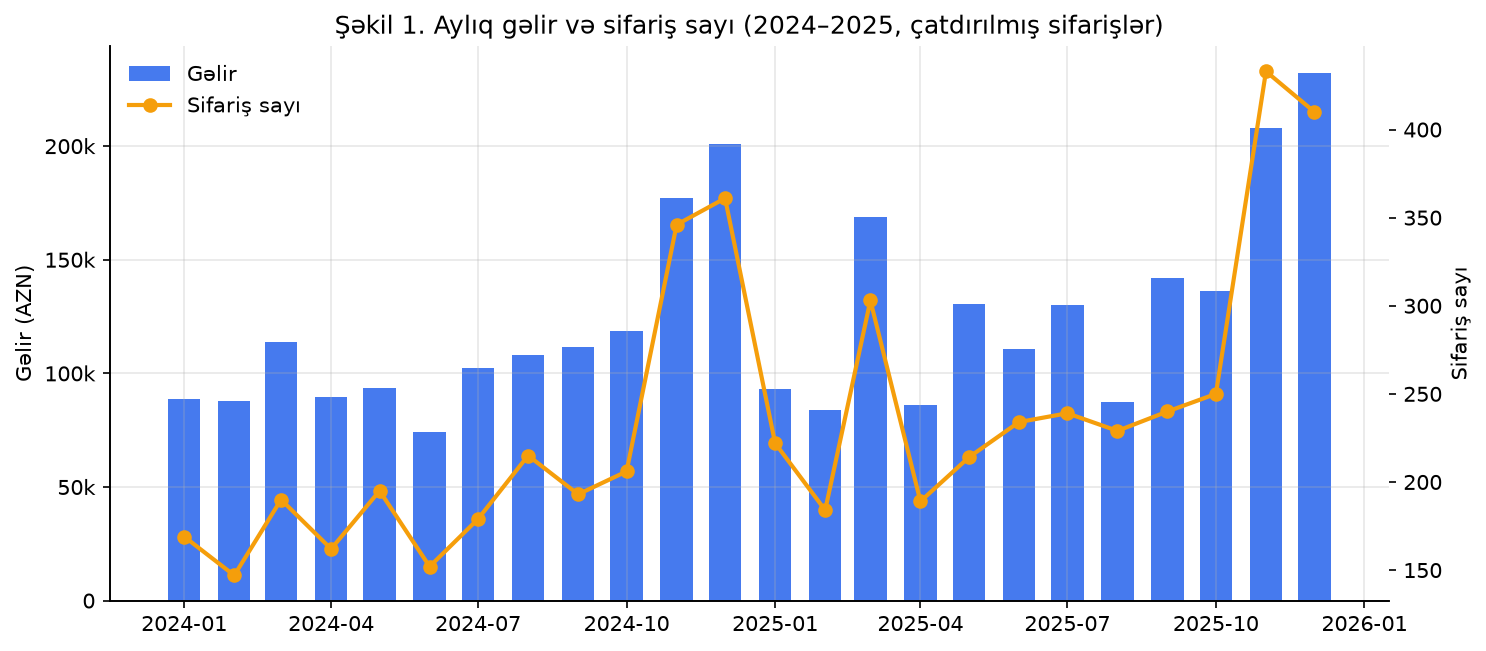
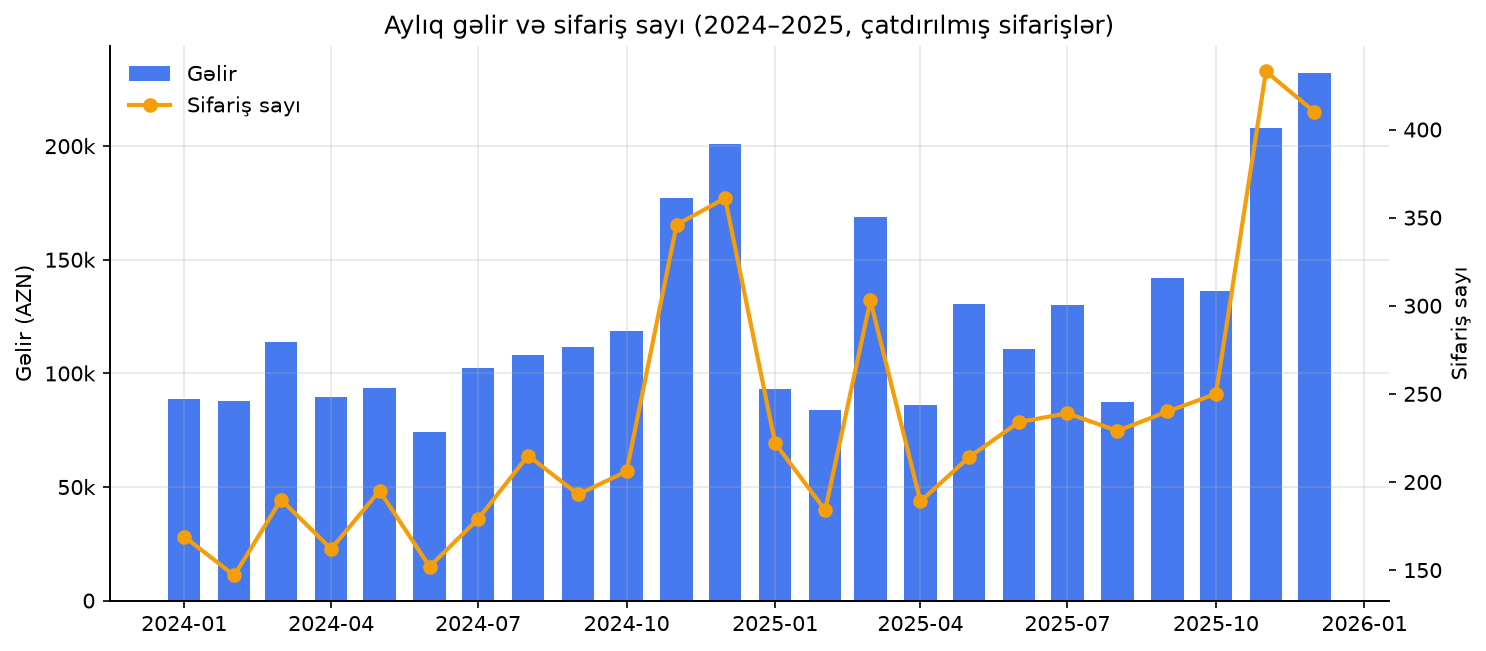
SQL sorğularında sabit sıralama (NTILE), qrafik başlıqları yeniləndi

Changed region(s): [[0.2167, 0.0, 0.7739, 0.0614]]

diff --git a/src/sales_report.py b/src/sales_report.py
@@ -76,7 +76,7 @@ def fig_monthly(df):
     ax2.set_ylabel("Sifariş sayı")
     ax2.grid(False)
     ax2.spines["top"].set_visible(False)
-    ax1.set_title("Şəkil 1. Aylıq gəlir və sifariş sayı (2024–2025, çatdırılmış sifarişlər)")
+    ax1.set_title("Aylıq gəlir və sifariş sayı (2024–2025, çatdırılmış sifarişlər)")
     h1, l1 = ax1.get_legend_handles_labels()
     h2, l2 = ax2.get_legend_handles_labels()
     ax1.legend(h1 + h2, l1 + l2, loc="upper left", frameon=False)
@@ -93,7 +93,7 @@ def fig_category(df):
                 va="center", fontsize=9)
     ax.xaxis.set_major_formatter(azn)
     ax.set_xlabel("Gəlir (AZN)")
-    ax.set_title("Şəkil 2. Kateqoriyalar üzrə gəlir və ümumi gəlirdəki pay")
+    ax.set_title("Kateqoriyalar üzrə gəlir və ümumi gəlirdəki pay")
     ax.grid(axis="y", visible=False)
     fig.savefig(FIGURES_DIR / "02_category_revenue.png")
     plt.close(fig)
@@ -105,7 +105,7 @@ def fig_payment(df):
     df.plot(kind="bar", stacked=True, ax=ax, color=["#16a34a", "#dc2626", "#f59e0b"], width=0.7)
     ax.set_xlabel("")
     ax.set_ylabel("Ödəniş sayı")
-    ax.set_title("Şəkil 3. Ödəniş üsulları üzrə statuslar")
+    ax.set_title("Ödəniş üsulları üzrə statuslar")
     ax.legend(["Uğurlu", "Uğursuz", "Geri qaytarılıb"], frameon=False)
     plt.xticks(rotation=0)
     fig.savefig(FIGURES_DIR / "03_payment_methods.png")
@@ -121,7 +121,7 @@ def fig_segments(df):
     for ax in axes:
         ax.tick_params(axis="x", rotation=15)
         ax.grid(axis="x", visible=False)
-    fig.suptitle("Şəkil 4. RFM seqmentləri: müştəri sayı və gəlir payı")
+    fig.suptitle("RFM seqmentləri: müştəri sayı və gəlir payı")
     fig.savefig(FIGURES_DIR / "04_customer_segments.png")
     plt.close(fig)
 
@@ -139,7 +139,7 @@ def fig_yoy(df):
     ax.set_yticks(y, p.index)
     ax.xaxis.set_major_formatter(azn)
     ax.set_xlabel("Gəlir (AZN)")
-    ax.set_title("Şəkil 5. Kateqoriyalar üzrə illik müqayisə (2024 və 2025)")
+    ax.set_title("Kateqoriyalar üzrə illik müqayisə (2024 və 2025)")
     ax.legend(frameon=False, loc="lower right")
     ax.grid(axis="y", visible=False)
     fig.savefig(FIGURES_DIR / "05_yoy_comparison.png")
@@ -162,7 +162,7 @@ def fig_order_distribution(engine):
         ax.set_ylabel("Sifariş sayı")
     axes[0].set_xlabel("Sifariş məbləği (AZN)")
     axes[1].set_xlabel("log10(məbləğ)")
-    fig.suptitle("Şəkil 6. Sifariş məbləğlərinin paylanması")
+    fig.suptitle("Sifariş məbləğlərinin paylanması")
     fig.savefig(FIGURES_DIR / "06_order_distribution.png")
     plt.close(fig)
 
@@ -173,7 +173,7 @@ def fig_city(df):
     ax.barh(city.index, city.values, color="#0891b2")
     ax.xaxis.set_major_formatter(azn)
     ax.set_xlabel("Uğurlu ödənişlərin məbləği (AZN)")
-    ax.set_title("Şəkil 7. Şəhərlər üzrə satış (uğurlu ödənişlər)")
+    ax.set_title("Şəhərlər üzrə satış (uğurlu ödənişlər)")
     ax.grid(axis="y", visible=False)
     fig.savefig(FIGURES_DIR / "07_city_sales.png")
     plt.close(fig)

diff --git a/reports/sales_report.md b/reports/sales_report.md
@@ -31,11 +31,11 @@
 
 | segment      |   customers |   avg_orders |   avg_spent |    total_revenue |   revenue_share_pct |
 |:-------------|------------:|-------------:|------------:|-----------------:|--------------------:|
-| VIP          |         449 |         5.98 |     3527.38 |      1.58379e+06 |               53.22 |
+| VIP          |         441 |         6.06 |     3556.64 |      1.56848e+06 |               52.71 |
 | Risk altında |         355 |         3.03 |     2506.62 | 889851           |               29.9  |
-| Sadiq        |         328 |         2.65 |      837.94 | 274844           |                9.24 |
+| Sadiq        |         333 |         2.65 |      870.57 | 289899           |                9.74 |
 | Passiv       |         533 |         1.73 |      320.73 | 170950           |                5.74 |
-| Yeni / aktiv |         110 |         1    |      511.75 |  56292.9         |                1.89 |
+| Yeni / aktiv |         113 |         1    |      500.48 |  56554.5         |                1.9  |
 
 ## Ödəniş üsulları
 
@@ -52,15 +52,15 @@
 
 | query                            | description                                                                                                          |   rows |   time_ms |
 |:---------------------------------|:---------------------------------------------------------------------------------------------------------------------|-------:|----------:|
-| q01_category_revenue             | [JOIN + GROUP BY] Kateqoriyalar üzrə satış həcmi, gəlir və gəlirdəki pay                                             |     10 |      38.6 |
-| q02_monthly_revenue              | [GROUP BY + tarix funksiyaları] Aylıq gəlir, sifariş sayı və orta çek                                                |     24 |       6   |
-| q03_loyal_customers_having       | [JOIN + GROUP BY + HAVING] 8-dən çox çatdırılmış sifarişi və 3000 AZN-dən çox xərci olan müştərilər                  |     70 |      10.1 |
-| q04_city_payment_having          | [JOIN + GROUP BY + HAVING] Şəhər və ödəniş üsulu üzrə — 50-dən çox uğurlu ödəniş olan kombinasiyalar                 |     32 |      13   |
-| q05_top_customers_cte            | [CTE] Müştəri seqmentasiyası (RFM-ə bənzər): son alış, tezlik və pul dəyəri                                          |      5 |      12   |
-| q06_products_above_category_avg  | [Korrelyasiyalı Subquery] Öz kateqoriyasının orta qiymətindən baha olan və ən azı 20 dəfə satılan məhsullar          |     20 |      19.1 |
-| q07_customers_above_avg_subquery | [Subquery IN / skalyar] Orta müştəri xərcindən 3 dəfə çox xərcləyən müştərilərin şəhər üzrə sayı                     |     10 |      12.7 |
-| q08_yoy_growth_cte               | [CTE + LAG] Kateqoriyalar üzrə illik gəlir və illik artım (YoY) faizi                                                |     20 |      33.8 |
-| q09_payment_methods              | [JOIN + GROUP BY] Ödəniş üsulları üzrə uğur, uğursuzluq və geri qaytarma göstəriciləri                               |      6 |       8.2 |
-| q10_top_products_per_category    | [CTE + ROW_NUMBER] Hər kateqoriyada gəlirə görə ilk 3 məhsul                                                         |     30 |      39.3 |
-| q11_cancellation_by_category     | [LEFT JOIN + GROUP BY + HAVING + Subquery] Ləğv/geri qaytarma nisbəti ümumi orta nisbətdən yüksək olan kateqoriyalar |      3 |      33.9 |
-| q12_age_group_analysis           | [CTE + CASE] Yaş qrupları və cins üzrə alış davranışı                                                                |     10 |      22.2 |
+| q01_category_revenue             | [JOIN + GROUP BY] Kateqoriyalar üzrə satış həcmi, gəlir və gəlirdəki pay                                             |     10 |      37.5 |
+| q02_monthly_revenue              | [GROUP BY + tarix funksiyaları] Aylıq gəlir, sifariş sayı və orta çek                                                |     24 |       4.7 |
+| q03_loyal_customers_having       | [JOIN + GROUP BY + HAVING] 8-dən çox çatdırılmış sifarişi və 3000 AZN-dən çox xərci olan müştərilər                  |     70 |       6.7 |
+| q04_city_payment_having          | [JOIN + GROUP BY + HAVING] Şəhər və ödəniş üsulu üzrə — 50-dən çox uğurlu ödəniş olan kombinasiyalar                 |     32 |       6.9 |
+| q05_top_customers_cte            | [CTE] Müştəri seqmentasiyası (RFM-ə bənzər): son alış, tezlik və pul dəyəri                                          |      5 |       7.7 |
+| q06_products_above_category_avg  | [Korrelyasiyalı Subquery] Öz kateqoriyasının orta qiymətindən baha olan və ən azı 20 dəfə satılan məhsullar          |     20 |       8.5 |
+| q07_customers_above_avg_subquery | [Subquery IN / skalyar] Orta müştəri xərcindən 3 dəfə çox xərcləyən müştərilərin şəhər üzrə sayı                     |     10 |       6.7 |
+| q08_yoy_growth_cte               | [CTE + LAG] Kateqoriyalar üzrə illik gəlir və illik artım (YoY) faizi                                                |     20 |      20.7 |
+| q09_payment_methods              | [JOIN + GROUP BY] Ödəniş üsulları üzrə uğur, uğursuzluq və geri qaytarma göstəriciləri                               |      6 |       4.8 |
+| q10_top_products_per_category    | [CTE + ROW_NUMBER] Hər kateqoriyada gəlirə görə ilk 3 məhsul                                                         |     30 |      23.9 |
+| q11_cancellation_by_category     | [LEFT JOIN + GROUP BY + HAVING + Subquery] Ləğv/geri qaytarma nisbəti ümumi orta nisbətdən yüksək olan kateqoriyalar |      3 |      26.5 |
+| q12_age_group_analysis           | [CTE + CASE] Yaş qrupları və cins üzrə alış davranışı                                                                |     10 |      14.2 |
